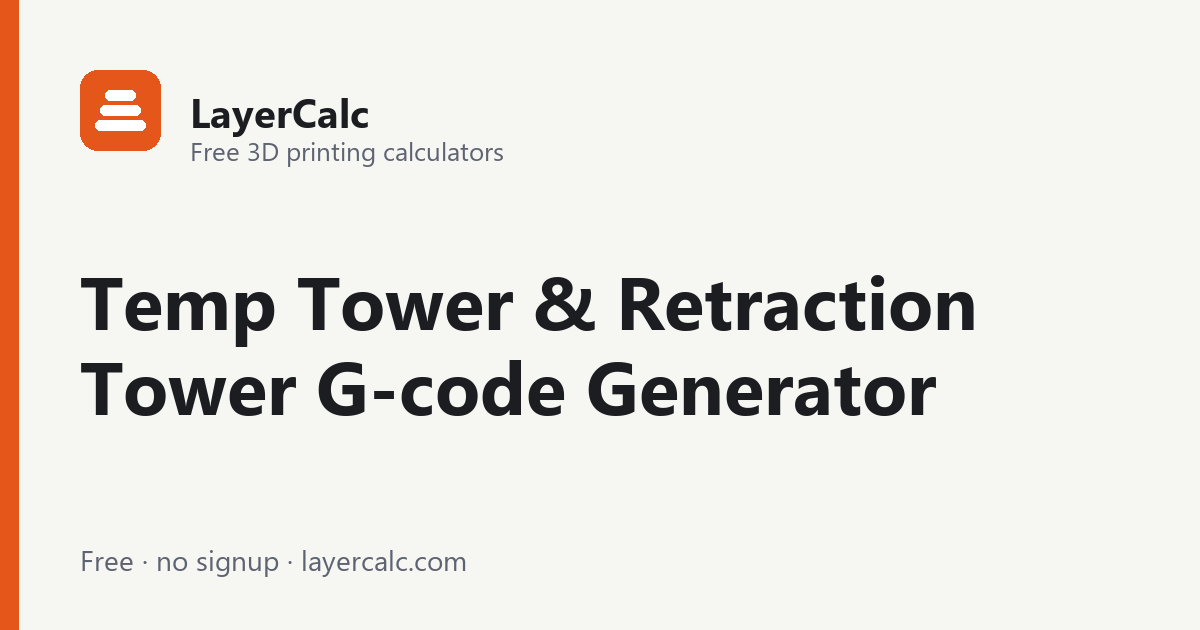
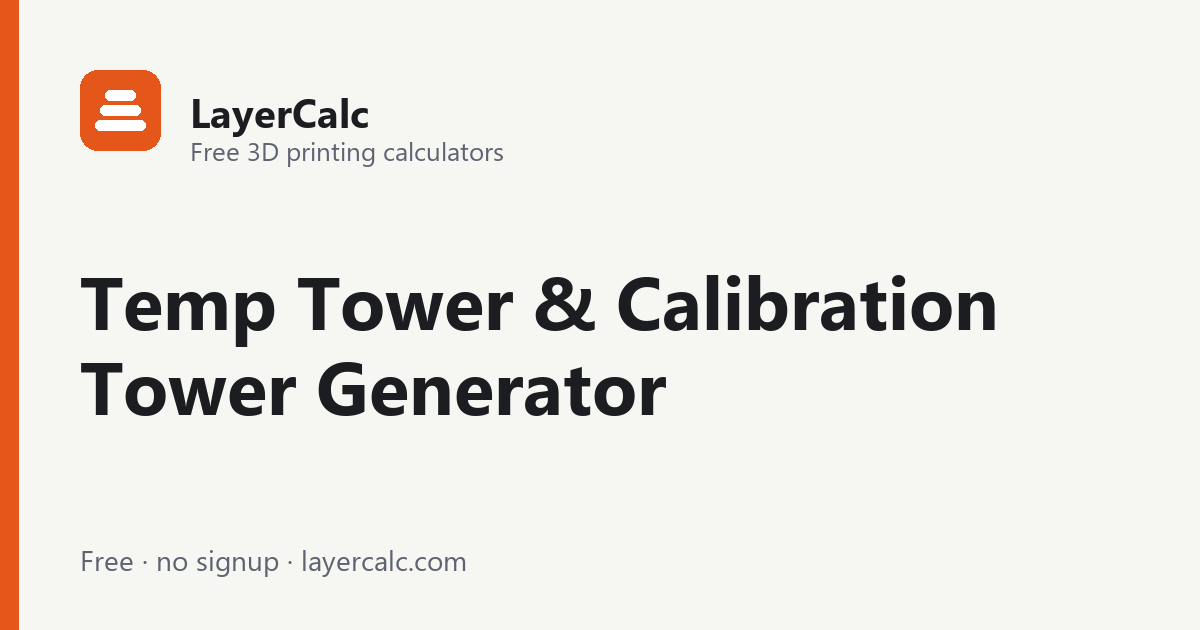
SEO audit of the site itself: three real fixes, and a record of what to skip
Audited the live site against current practice rather than assumptions, and
checked two things that changed recently enough to be worth verifying.

Fixed
- Heading hierarchy. Card grids use h3, and on category pages and the 404 they
  sat directly under the h1, so every one of those pages skipped a level. Cards
  now sit under an h2 ("Choose a calculator" / "Every calculator") and the
  detail list below is "What each one does".
- Sitemap lastmod was lying. Home and category pages stamped the build date, so
  every deploy claimed they had changed whether or not they had. A lastmod that
  always moves teaches crawlers to ignore the field. Hubs now inherit the newest
  date of the content they actually list, so a rebuild alone no longer touches it.
- No authorship in structured data. WebPage nodes now carry author, publisher,
  datePublished and dateModified. Publication date comes from a new SITE
  "launched" value unless a page overrides it.

Consistency
- The tower generator's h1 still called it a temp and retraction generator after
  it grew to six tests. Now "Temp Tower & Calibration Tower Generator", which
  keeps the exact-match query in the heading while being accurate.
- The calibration category still asserted our calibration order as the order.
  Softened to match what the flow-rate and tower pages already say.
- Regenerated share images for the changed titles.

Verified and left alone
- Trailing slash, www and http redirects all 301 correctly.
[…]

Changed region(s): [[0.3083, 0.573, 0.8017, 0.6635], [0.5242, 0.4222, 0.8325, 0.5429]]

diff --git a/content/calculators/temp-tower-generator.html b/content/calculators/temp-tower-generator.html
@@ -1,5 +1,5 @@
 {
-  "title": "Temp Tower & Retraction Tower G-code Generator",
+  "title": "Temp Tower & Calibration Tower Generator",
   "page_title": "Calibration Tower G-code Generator – Six Tests",
   "description": "Generate calibration towers as G-code in your browser: temperature, retraction, cooling fan, print speed or pressure advance. No slicer plugin needed.",
   "lede": "Choose what to test — temperature, retraction distance or speed, cooling fan, print speed or pressure advance — and download a G-code file that steps the value every few millimetres. Six tests, no slicer plugin, no post-processing script, works with any slicer or none.",

diff --git a/build.py b/build.py
@@ -36,6 +36,7 @@ SITE = {
     "url": "https://layercalc.com",
     "lang": "en",
     "locale": "en_US",
+    "launched": "2026-09-07",
 }
 
 # Revenue plumbing. Everything here is inert until an ID is filled in, so the
@@ -74,7 +75,7 @@ CATEGORIES = {
         "h1": "3D printer calibration calculators",
         "description": "E-steps, flow rate, shrinkage compensation, magic layer heights, volumetric flow, belt tension and a test tower G-code generator. Free, in your browser.",
         "intro": "Dial in a printer in the right order: extruder steps, then flow, then dimensional accuracy, then speed. Each tool tells you exactly which number to type into your firmware or slicer.",
-        "guide": "<h2>Calibrate in this order, or you will do it twice</h2>\n<p>Each of these steps assumes the one before it is already correct. Tuning flow before the extruder is delivering the right length of filament, for instance, just bakes the extruder error into a flow number that will be wrong again the moment you fix it. The order below is the one that converges.</p>\n<ol>\n<li><strong>Extruder steps</strong> &mdash; e-steps on Marlin, rotation_distance on Klipper. Done once per extruder, not per material. Confirms the printer pushes 100&nbsp;mm when you ask for 100&nbsp;mm.</li>\n<li><strong>Flow rate</strong> &mdash; the extrusion multiplier, tuned per material. Corrects for how the plastic actually spreads once it leaves the nozzle: filament diameter tolerance, melt temperature, and the slicer's assumptions.</li>\n<li><strong>Temperature and retraction</strong> &mdash; a test tower per filament. Do this after flow, or over-extrusion will look exactly like printing too hot.</li>\n<li><strong>Dimensional accuracy</strong> &mdash; shrinkage compensation and hole offsets, per material. Only meaningful once the right amount of plastic is coming out.</li>\n<li><strong>Speed</strong> &mdash; find the hotend's volumetric ceiling last, since it determines which of your speed settings are doing anything at all.</li>\n</ol>\n<h3>Mechanical checks sit outside that sequence</h3>\n<p>Belt tension and layer-height selection are not part of the extrusion chain, but they set a ceiling on what any amount of tuning can achieve. Loose belts produce ringing that looks like an acceleration problem; a layer height that lands between full motor steps can show faint banding on glossy walls that no flow adjustment will remove. Both are worth checking before you spend an evening chasing extrusion settings.</p>\n<h3>How much of this does a modern printer need?</h3>\n<p>Less than it used to. Bambu, Prusa and most Klipper machines ship with the extruder already calibrated and the mechanics square, so flow and temperature per filament is often the whole job. E-steps matter most on budget machines and on anything you have modified &mdash; a new extruder, motor or mainboard puts you back at step one.</p>",
+        "guide": "<h2>An order that works</h2>\n<p>There is no single agreed sequence &mdash; OrcaSlicer's own guide runs temperature before flow, and the reasoning cuts both ways. What is not in dispute is that each step assumes the one before it is already correct. Tuning flow before the extruder is delivering the right length of filament, for instance, just bakes the extruder error into a flow number that will be wrong again the moment you fix it. The order below is the one that converges.</p>\n<ol>\n<li><strong>Extruder steps</strong> &mdash; e-steps on Marlin, rotation_distance on Klipper. Done once per extruder, not per material. Confirms the printer pushes 100&nbsp;mm when you ask for 100&nbsp;mm.</li>\n<li><strong>Flow rate</strong> &mdash; the extrusion multiplier, tuned per material. Corrects for how the plastic actually spreads once it leaves the nozzle: filament diameter tolerance, melt temperature, and the slicer's assumptions.</li>\n<li><strong>Temperature and retraction</strong> &mdash; a test tower per filament. Do this after flow, or over-extrusion will look exactly like printing too hot.</li>\n<li><strong>Dimensional accuracy</strong> &mdash; shrinkage compensation and hole offsets, per material. Only meaningful once the right amount of plastic is coming out.</li>\n<li><strong>Speed</strong> &mdash; find the hotend's volumetric ceiling last, since it determines which of your speed settings are doing anything at all.</li>\n</ol>\n<h3>Mechanical checks sit outside that sequence</h3>\n<p>Belt tension and layer-height selection are not part of the extrusion chain, but they set a ceiling on what any amount of tuning can achieve. Loose belts produce ringing that looks like an acceleration problem; a layer height that lands between full motor steps can show faint banding on glossy walls that no flow adjustment will remove. Both are worth checking before you spend an evening chasing extrusion settings.</p>\n<h3>How much of this does a modern printer need?</h3>\n<p>Less than it used to. Bambu, Prusa and most Klipper machines ship with the extruder already calibrated and the mechanics square, so flow and temperature per filament is often the whole job. E-steps matter most on budget machines and on anything you have modified &mdash; a new extruder, motor or mainboard puts you back at step one.</p>",
     },
     "filament": {
         "slug": "filament-calculators",
@@ -297,7 +298,10 @@ def tool_jsonld(tool: dict, canonical: str, cat: dict) -> dict:
             "@type": "WebPage",
             "name": tool["title"],
             "url": canonical,
+            "datePublished": tool.get("published", SITE["launched"]),
             "dateModified": tool["updated"],
+            "author": {"@type": "Organization", "name": SITE["name"], "url": SITE["url"] + "/about/"},
+            "publisher": {"@type": "Organization", "name": SITE["name"], "url": SITE["url"]},
             "isPartOf": {"@type": "WebSite", "name": SITE["name"], "url": SITE["url"]},
         },
         {
@@ -412,9 +416,10 @@ def build_category(key: str, tools: list[dict], base: str, hub: str) -> str:
     mine = [t for t in tools if t["category"] == key]
     parts = [f'<nav class="breadcrumb" aria-label="Breadcrumb"><a href="/">Home</a> &rsaquo; <span>{esc(cat["title"])}</span></nav>',
              '<section class="hero">', f'  <h1>{esc(cat["h1"])}</h1>', f'  <p>{esc(cat["intro"])}</p>', '</section>',
+             '<h2>Choose a calculator</h2>',
              '<div class="cards">' + "".join(card(t) for t in mine) + "</div>", ad_unit("hub")]
     parts.append('<section class="home-faq">')
-    parts.append(f'<h2>Every {cat["nav"].lower()} calculator</h2>')
+    parts.append('<h2>What each one does</h2>')
     for t in mine:
         parts.append(f'<h3><a href="/{t["slug"]}/">{esc(t["title"])}</a></h3><p>{t["lede"]}</p>')
     parts.append(cat["guide"])
@@ -447,7 +452,12 @@ def build_page(page: dict, tools: list[dict], base: str, tpl: str) -> str:
     content = render(tpl, {"title": esc(page["title"]), "body": body})
     path = f'/{page["slug"]}/'
     jsonld = {"@context": "https://schema.org", "@type": "WebPage", "name": page["title"], "url": SITE["url"] + path,
-              "description": page["description"], "isPartOf": {"@type": "WebSite", "name": SITE["name"], "url": SITE["url"]}}
+              "description": page["description"],
+              "datePublished": page.get("published", SITE["launched"]),
+              "dateModified": page.get("updated", SITE["launched"]),
+              "author": {"@type": "Organization", "name": SITE["name"], "url": SITE["url"] + "/about/"},
+              "publisher": {"@type": "Organization", "name": SITE["name"], "url": SITE["url"]},
+              "isPartOf": {"@type": "WebSite", "name": SITE["name"], "url": SITE["url"]}}
     nav_current = path if page["slug"] == "filament-settings-reference" else ""
     return page_shell(base, content=content, title=page["title"], page_title=f'{page["title"]} – {SITE["name"]}',
                       description=page["description"], canonical_path=path, jsonld=jsonld, tools=tools,
@@ -478,6 +488,7 @@ def not_found(tools: list[dict], base: str, hub: str) -> str:
     content = render(hub, {"content":
         '<section class="hero"><h1>That page doesn\'t exist</h1><p>The address may have a typo, or the tool moved. '
         'Everything on the site is listed below.</p></section>'
+        '<h2>Every calculator</h2>'
         '<div class="cards">' + "".join(card(t) for t in tools) + "</div>"})
     return page_shell(base, content=content, title="Page not found", page_title=f'Page not found – {SITE["name"]}',
                       description="The page you asked for could not be found. Every LayerCalc calculator is listed here.",
@@ -528,12 +539,18 @@ def main() -> None:
                 shutil.copy(f, DIST / f.name)
 
     today = date.today().isoformat()
-    urls = [(SITE["url"] + "/", today)]
+    # lastmod has to mean "this page changed", not "the site was rebuilt". A date
+    # that moves on every deploy teaches crawlers to ignore the field, so hubs
+    # inherit the newest date of the content they actually list.
+    all_dates = [t["updated"] for t in tools] + [p.get("updated", today) for p in pages]
+    newest = max(all_dates) if all_dates else today
+    urls = [(SITE["url"] + "/", newest)]
 
     write(DIST / "index.html", build_home(tools, base, hub))
     for key, cat in CATEGORIES.items():
         write(DIST / cat["slug"] / "index.html", build_category(key, tools, base, hub))
-        urls.append((f'{SITE["url"]}/{cat["slug"]}/', today))
+        cat_dates = [t["updated"] for t in tools if t["category"] == key]
+        urls.append((f'{SITE["url"]}/{cat["slug"]}/', max(cat_dates) if cat_dates else newest))
     for tool in tools:
         write(DIST / tool["slug"] / "index.html", build_tool(tool, tools, base, tool_tpl))
         urls.append((f'{SITE["url"]}/{tool["slug"]}/', tool["updated"]))

diff --git a/docs/SEO.md b/docs/SEO.md
@@ -1,0 +1,72 @@
+# SEO: what's in place, and what's deliberately not
+
+Audited against the live site on 2026-09-08. This file exists so the next person
+(or the next you) doesn't re-litigate decisions that were already made on purpose.
+
+## In place
+
+| | |
+|---|---|
+| **One tool, one URL** | Each calculator is its own page targeting one query. Never a tabbed app. |
+| **Titles** | All ≤ 60 characters, unique, primary keyword first. Longer titles truncate in results and lose the differentiating half. |
+| **Descriptions** | All ≤ 160 characters, unique. `build.py` refuses to build if one is longer. |
+| **Canonicals** | Absolute, self-referencing, verified matching on every page. |
+| **Headings** | One `h1` per page, no level skips. Card grids sit under an `h2` for this reason. |
+| **Structured data** | `SoftwareApplication`, `WebPage` (with `author`, `publisher`, `datePublished`, `dateModified`), `BreadcrumbList`, `FAQPage` on tools; `CollectionPage` + `ItemList` on categories; `WebSite` + `Organization` on the home page. |
+| **Sitemap** | `lastmod` is derived from real content dates. Hub pages inherit the newest date of what they list, so a rebuild alone never changes it. |
+| **Internal linking** | Hub and spoke, plus a related-tools block and contextual links in every article. Zero orphans, zero broken links, everything one click from the home page. |
+| **Redirects** | `http → https`, `www → apex`, and `/slug → /slug/` all 301. |
+| **Performance** | ~6 KB per page gzipped, one 24 KB font preloaded, no third-party CSS or JS beyond GA4. |
+| **Indexing** | Google Search Console + Bing Webmaster, and IndexNow fires on every deploy. |
+
+## Deliberately not done
+
+**`HowTo` schema** — Google removed HowTo rich results in 2023. Adding it now
+marks up content for a feature that no longer exists.
+
+**`FAQPage` is kept, but expect no rich result.** Google deprecated FAQ rich
+results in May 2026. The schema is still valid, costs nothing, and pages carrying
+it appear more often in AI Overviews, so it stays — but nobody should expect
+expanded listings from it.
+
+**`AggregateRating` / `Review`** — we have no genuine reviews. Inventing them is
+both a manual-action risk and dishonest.
+
+**`llms.txt`** — the file is served, and it is close to useless. Studies of AI
+crawler traffic find the overwhelming majority of `llms.txt` files are never
+requested at all, and Google has said on the record it does not support the
+format. It is ~1 KB, so it stays on the off-chance the situation changes, but do
+not count it as doing anything. What actually gets you cited by AI search is the
+same thing that ranks: clean HTML, clear factual statements, tables, and being
+crawlable.
+
+**`changefreq` and `priority` in the sitemap** — Google ignores both, and has
+said so for years.
+
+**Security headers (HSTS, CSP, X-Content-Type-Options)** — GitHub Pages does not
+allow custom response headers. Not fixable without moving hosts, and not worth
+moving hosts for.
+
+**A web app manifest** — no ranking effect. Padding.
+
+## The things that actually matter now
+
+The technical side is done and is not the constraint. Rankings are limited by
+domain age and backlinks, neither of which is a code change. In rough order of
+value:
+
+1. **Links from places the audience already trusts** — the calibration guides,
+   subreddit wikis, `awesome-*` lists. One good link beats any amount of markup.
+2. **Answering existing questions** on Stack Exchange and Reddit, where the
+   thread itself already ranks.
+3. **Search Console's query report**, monthly. The queries where you sit on page
+   two or three are the cheapest wins available: editing an existing page beats
+   writing a new one.
+
+## Re-running the audit
+
+There's no saved script — it was a one-off. If you want to repeat it, the checks
+worth automating are already in `check.py` (tags, canonicals, links, JSON-LD
+validity, heading count) and `tests/run.js` (calculator output). What those
+don't cover, and what the manual pass added, was: trailing-slash redirect
+behaviour, heading-level skips, `lastmod` honesty, and authorship fields.

diff --git a/README.md b/README.md
@@ -20,6 +20,7 @@ domain. Push to `main` and GitHub Actions builds and deploys it.
 | **Ads / analytics** | when you switch them on | `MONETIZATION` block at the top of `build.py` — see `docs/ADS.md` |
 
 Setup walkthrough (repo, domain, DNS, search consoles): **`docs/DEPLOY.md`**.
+What's done for SEO and what's deliberately skipped: **`docs/SEO.md`**.
 
 ---
 
